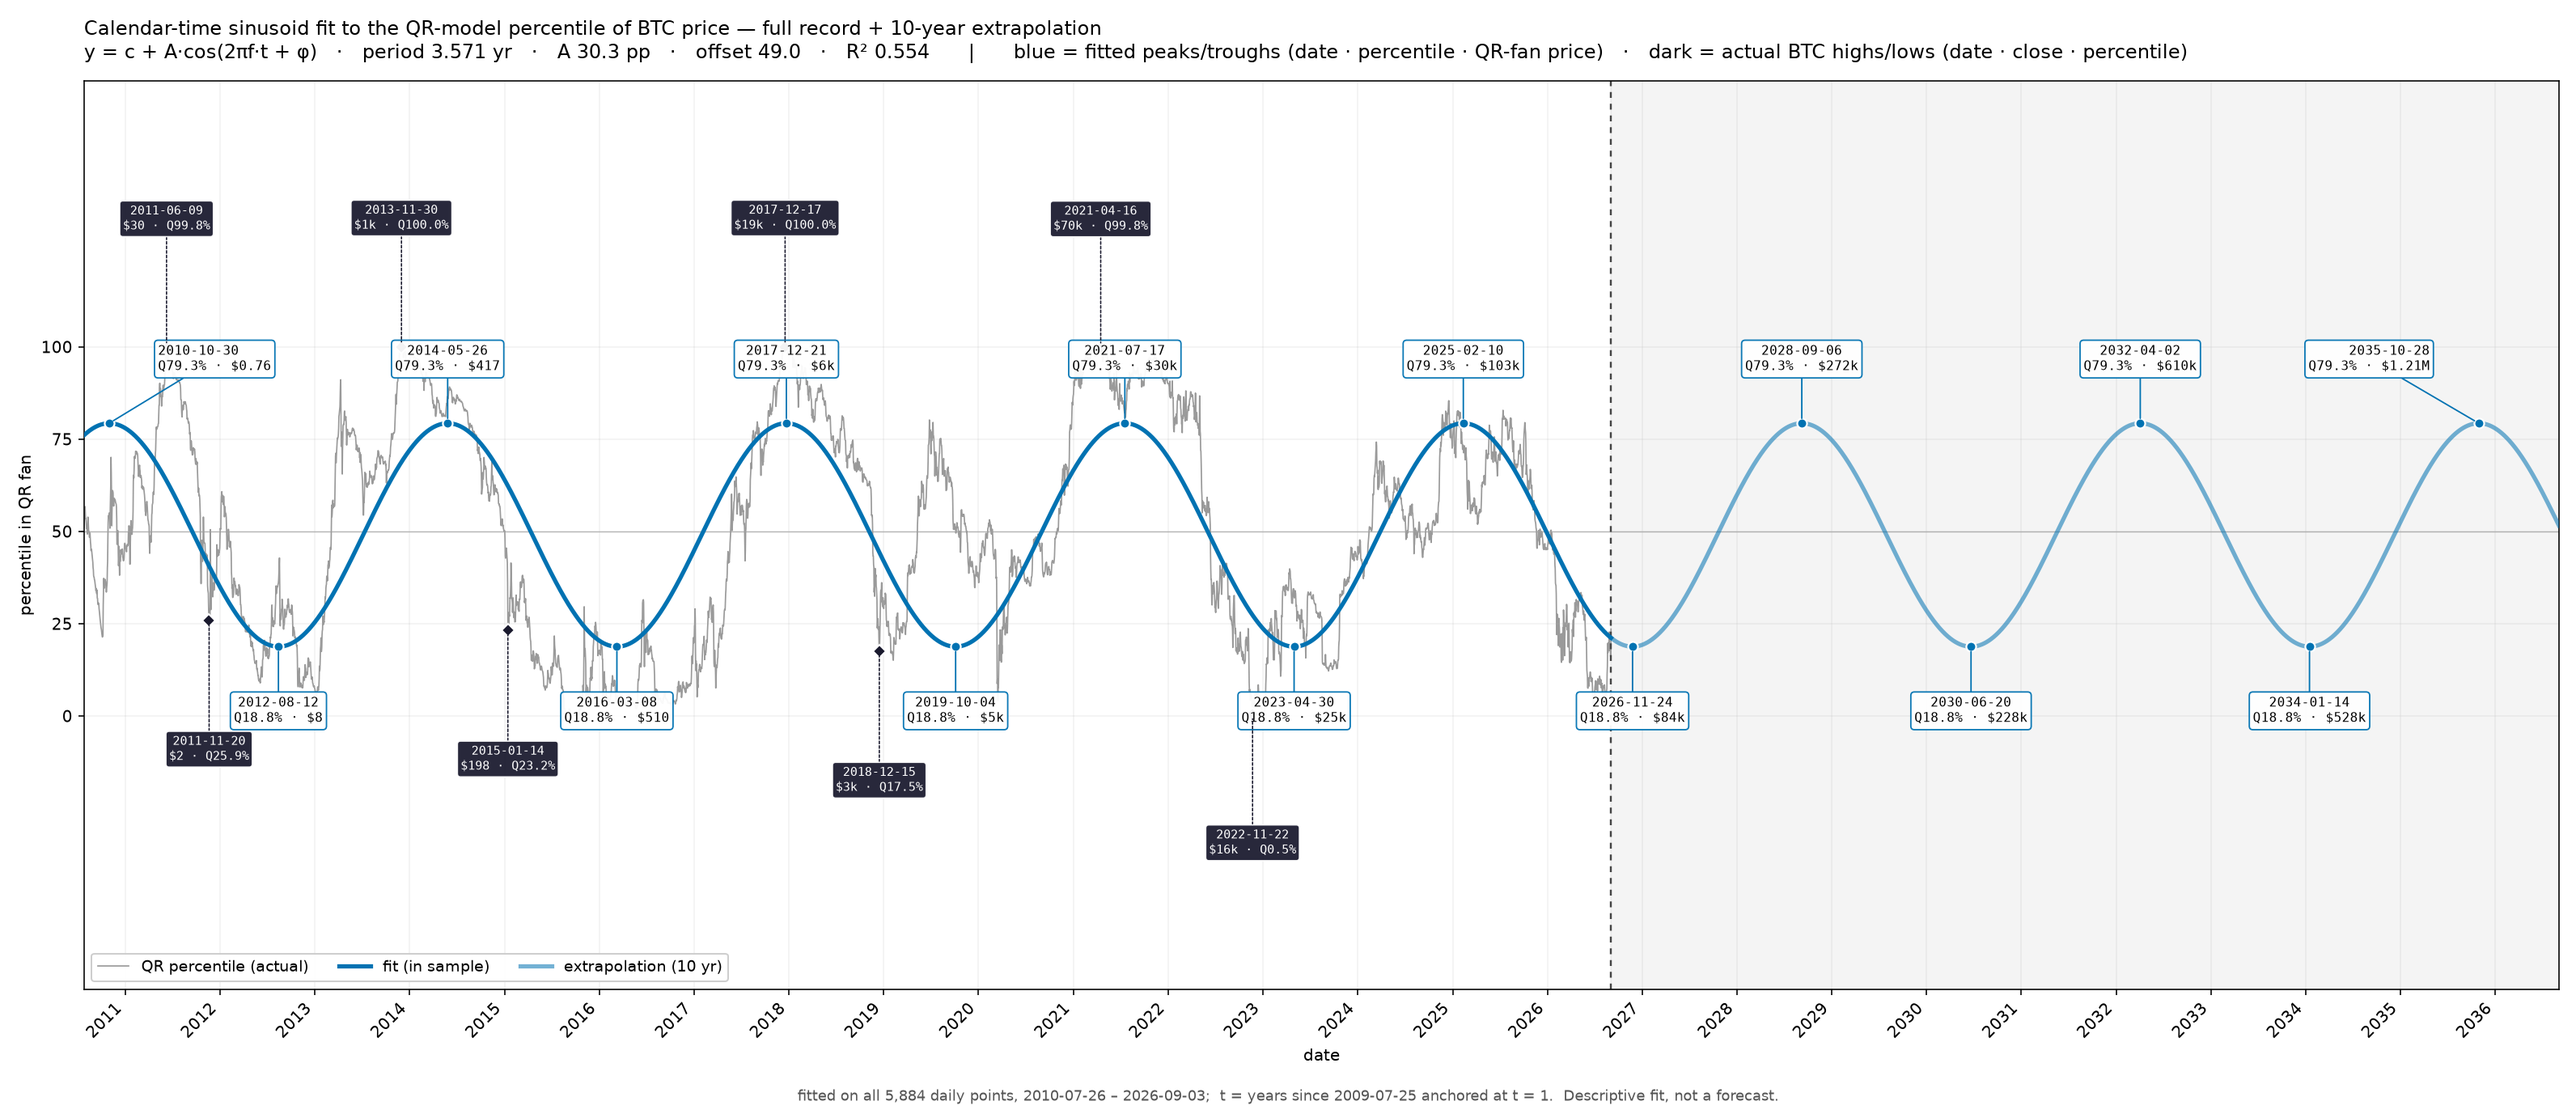
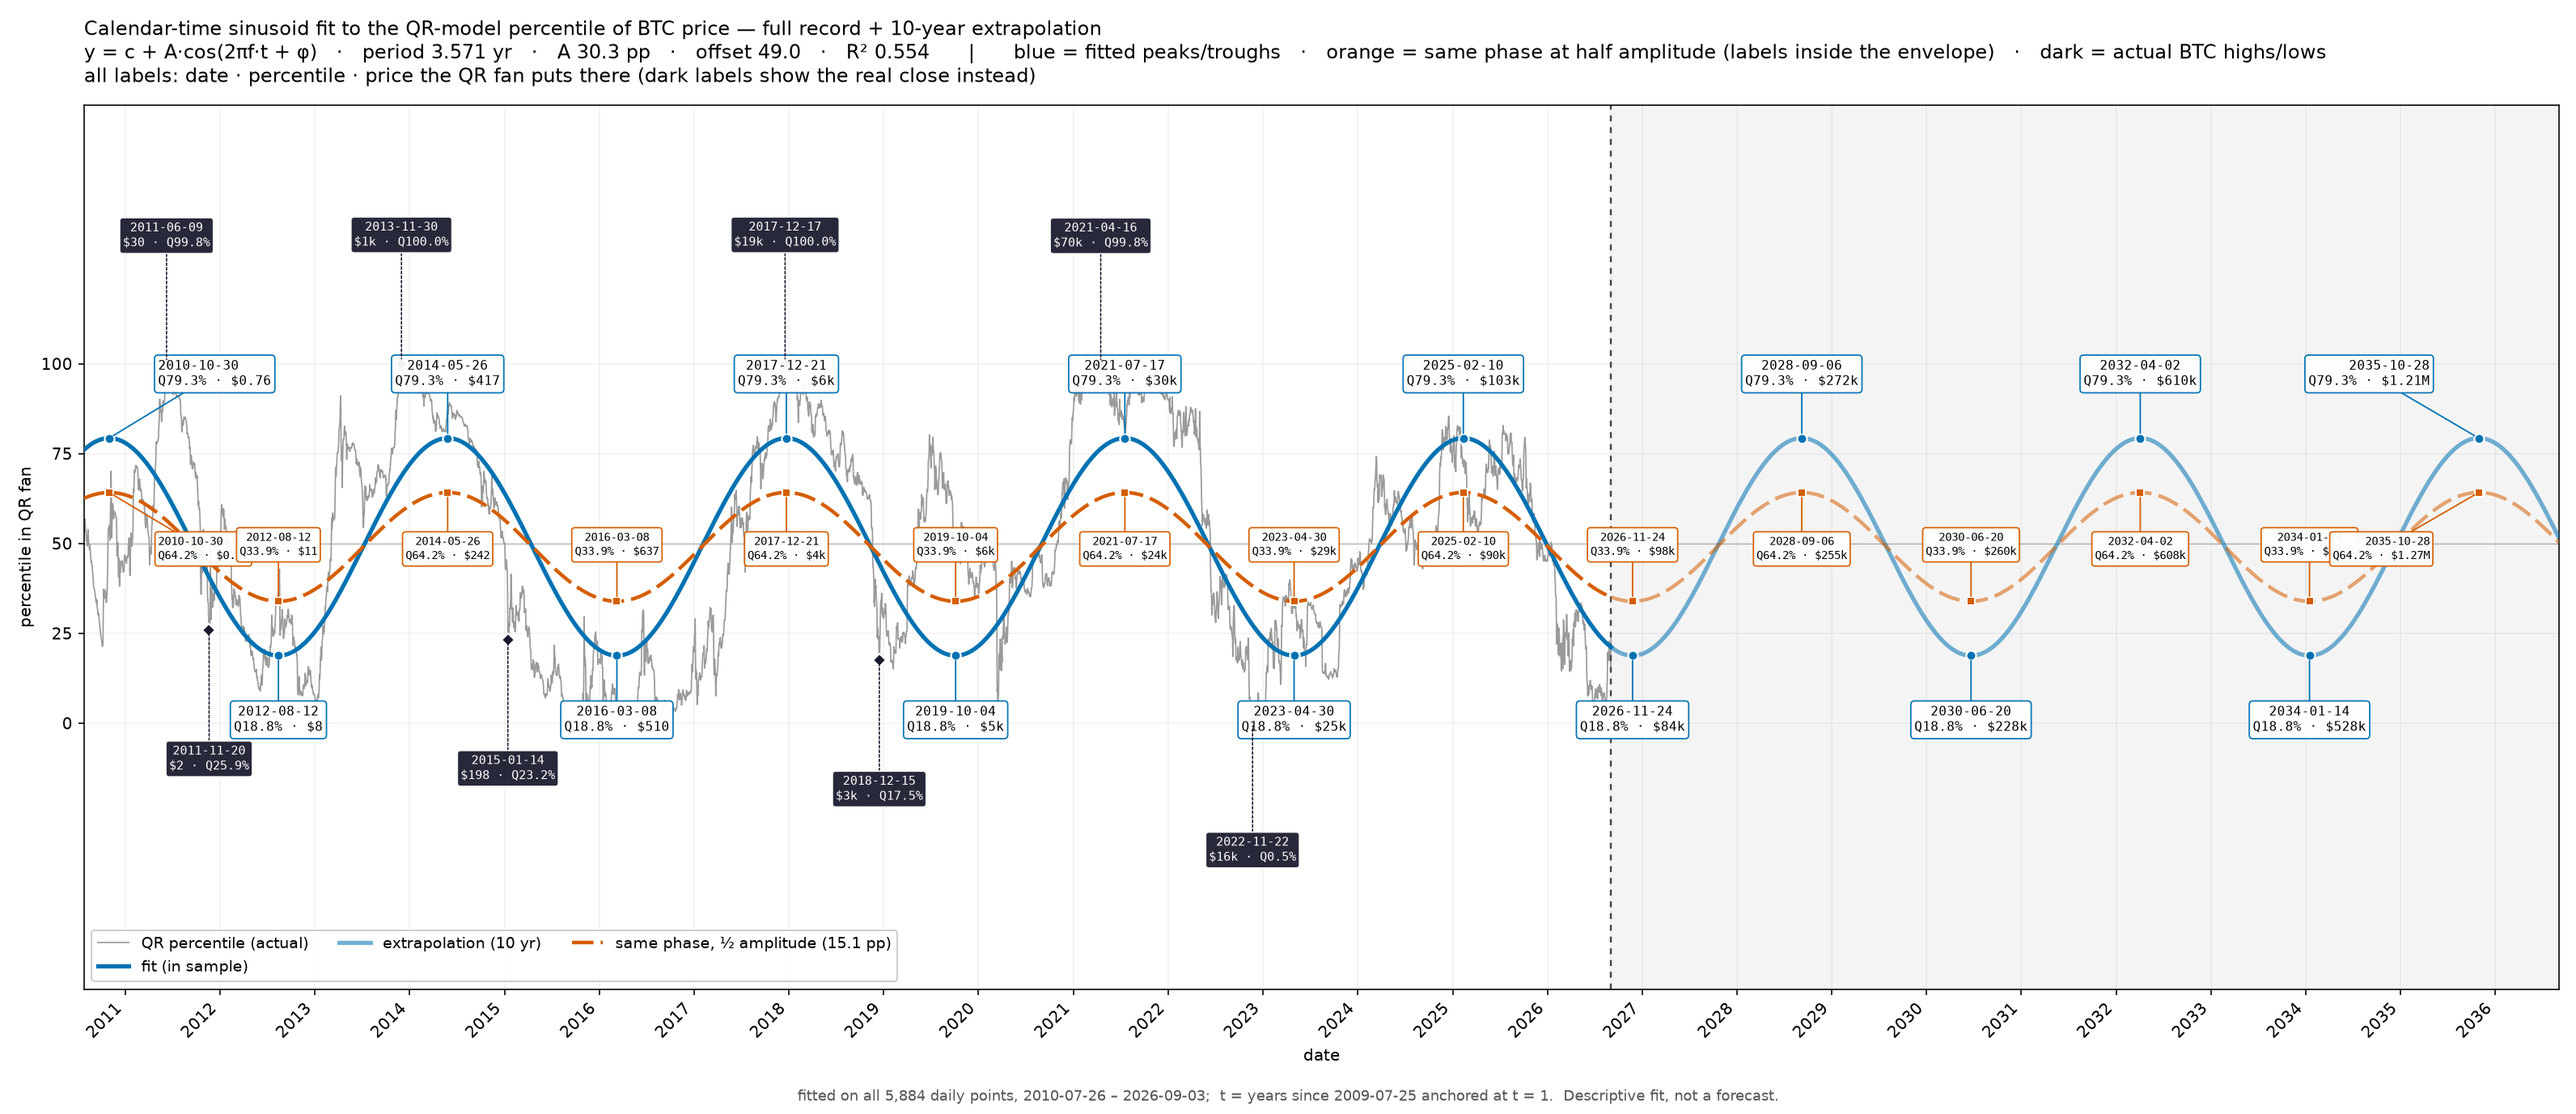
docs(artifacts): overlay a half-amplitude twin on the single-panel figures
Same offset, frequency and phase as the calendar fit, amplitude A/2 (15.1 pp
against 30.3). Added to both the 10- and 20-year single-panel artifacts with
the same date · percentile · QR-fan-price labelling as the full fit.

THE LABEL PROBLEM, and why the twin's labels are drawn upside down: sharing
the phase means its peaks and troughs fall on exactly the same DATES as the
full fit, so the obvious placement would stack two boxes at one x. The twin's
extrema sit inside the full envelope (64.2 / 33.9 against 79.3 / 18.8), so
its labels go INSIDE — peaks below the marker, troughs above — inverting the
full fit's convention. The two sets then occupy disjoint bands: full outside
the envelope, half inside it.

Edge handling matches the existing labels: the first twin label overran the
y-axis and covered the "50" tick on the first render, so it now takes the
same frac<0.045 nudge the blue labels use.

Colour checked rather than assumed — the dataviz validator scores
#0072B2 / #D55E00 at dE 21.9 under protan simulation and 31.2 for normal
vision, both well clear of the 8 threshold, and the twin is dashed so
identity does not rest on hue.

Claude-Session: https://claude.ai/code/session_01RzruK5ELFmDzgidqkctiQC

diff --git a/tools/render_percentile_sinusoid_artifacts.py b/tools/render_percentile_sinusoid_artifacts.py
@@ -395,6 +395,41 @@ def draw_single(path, F, curves, t, px, pct, dates, *, extrapolate_years=10.0):
     ax.axvspan(last, x1, color="#000000", alpha=0.045, zorder=0)
     ax.axvline(last, color="#444", lw=1.2, ls=(0, (3, 3)), zorder=2)
 
+    # Half-amplitude twin: same offset, frequency and phase, A/2. Its extrema
+    # fall on the SAME dates as the full fit, so its labels are placed INSIDE
+    # the envelope (peaks below the point, troughs above) — the opposite of
+    # the convention used for the full fit, which is what keeps the two label
+    # sets from landing on top of each other.
+    def half(x):
+        return p["c"] + 0.5 * p["A"] * np.cos(2 * np.pi * p["f"] * x + p["phi"])
+
+    yh = half(tt)
+    ax.plot(dd[hist], yh[hist], color=VERM, lw=2.2, ls=(0, (6, 2)), zorder=3,
+            label=f"same phase, ½ amplitude ({0.5*p['A']:.1f} pp)")
+    ax.plot(dd[~hist], yh[~hist], color=VERM, lw=2.2, ls=(0, (6, 2)),
+            alpha=0.55, zorder=3)
+    for t_e, y_e, kind in fit_extrema(half, t0, t1):
+        de = to_date(t_e)
+        up = kind == "peak"
+        ax.plot([de], [y_e], "s", ms=5.2, color=VERM, mec="white", mew=1.0,
+                zorder=6)
+        hfrac = (de - x0) / (x1 - x0)
+        hdx, hha = 0, "center"
+        if hfrac < 0.045:                 # would overrun the y-axis and its ticks
+            hdx, hha = 30, "left"
+        elif hfrac > 0.955:
+            hdx, hha = -30, "right"
+        ax.annotate(
+            f"{de.date()}\nQ{y_e:.1f}% \u00b7 {money(implied_price(qr, y_e, t_e))}",
+            xy=(de, y_e), xytext=(hdx, -26 if up else 26),  # inverted on purpose
+            textcoords="offset points", ha=hha,
+            va="top" if up else "bottom", fontsize=7.2,
+            family="DejaVu Sans Mono", zorder=7,
+            bbox=dict(boxstyle="round,pad=0.26", fc="white", ec=VERM,
+                      alpha=0.95, lw=0.9),
+            arrowprops=dict(arrowstyle="-", color=VERM, lw=0.9, shrinkA=0,
+                            shrinkB=3))
+
     for t_e, y_e, kind in fit_extrema(cal, t0, t1):
         de = to_date(t_e)
         up = kind == "peak"
@@ -458,8 +493,11 @@ def draw_single(path, F, curves, t, px, pct, dates, *, extrapolate_years=10.0):
         f"y = c + A\u00b7cos(2\u03c0f\u00b7t + \u03c6)   \u00b7   "
         f"period {1/p['f']:.3f} yr   \u00b7   A {p['A']:.1f} pp   \u00b7   "
         f"offset {p['c']:.1f}   \u00b7   R\u00b2 {p['r2']:.3f}      |      "
-        "blue = fitted peaks/troughs (date \u00b7 percentile \u00b7 QR-fan price)"
-        "   \u00b7   dark = actual BTC highs/lows (date \u00b7 close \u00b7 percentile)",
+        "blue = fitted peaks/troughs   \u00b7   orange = same phase at half "
+        "amplitude (labels inside the envelope)   \u00b7   dark = actual BTC "
+        "highs/lows\n"
+        "all labels: date \u00b7 percentile \u00b7 price the QR fan puts there "
+        "(dark labels show the real close instead)",
         fontsize=12, loc="left", pad=14)
     fig.text(0.5, 0.012,
              f"fitted on all {len(pct):,} daily points, {dates[0].date()} \u2013 "

diff --git a/docs/artifacts/README.md b/docs/artifacts/README.md
@@ -22,6 +22,13 @@ The single-panel pair is the one to read for dates and levels off one fit; the
 three-panel pair is for comparing the forms against each other. All four come
 from the same run of the same generator, so they cannot disagree.
 
+The single-panel figures also carry a **half-amplitude twin** (orange): same
+offset, frequency and phase, `A/2`. Because it shares the phase its extrema
+fall on the *same dates* as the full fit, so its labels are drawn INSIDE the
+envelope — peaks below the marker, troughs above — which is the inverse of the
+full fit's convention and is what keeps the two label sets apart. It answers
+"what if the cycle were half as wide?" without moving any turning point.
+
 ```bash
 btc_venv/bin/python3 tools/render_percentile_sinusoid_artifacts.py
 ```
